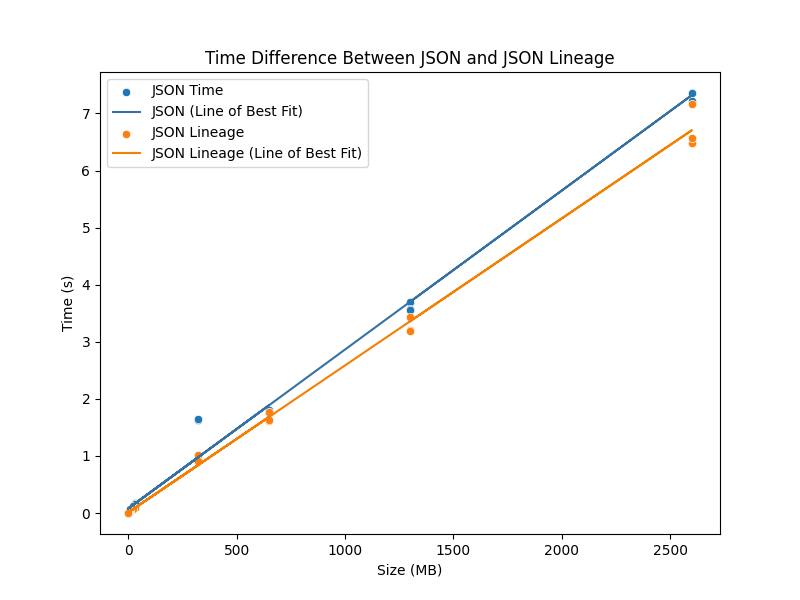
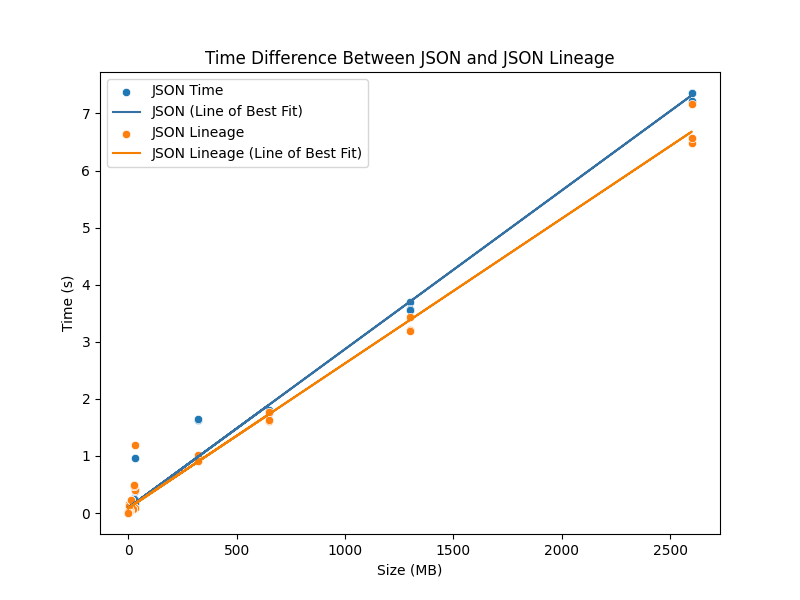
removed outliner in benchmark data, updated async iter to convert str. to json. fixed broken UTs.

diff --git a/adapters/python/tests/test_bin_interface.py b/adapters/python/tests/test_bin_interface.py
@@ -127,8 +127,8 @@ class TestBinaryReader(ReaderInstanceMixin, TestCase):
         correctly.
         """
         iterator = iter(self.reader)
-        self.assertEqual(next(iterator), '{"a": {"B": 1},"b": 2}')
-        self.assertEqual(next(iterator), '{"a": 1,"b": 2}')
+        self.assertEqual(next(iterator), {"a": {"B": 1}, "b": 2})
+        self.assertEqual(next(iterator), {"a": 1, "b": 2})
         with self.assertRaises(StopIteration):
             next(iterator)
 
@@ -213,8 +213,8 @@ class TestAsyncBinaryReader(ReaderInstanceMixin, IsolatedAsyncioTestCase):
         correctly.
         """
         iterator = self.reader.__aiter__()
-        self.assertEqual(await iterator.__anext__(), '{"a": {"B": 1},"b": 2}')
-        self.assertEqual(await iterator.__anext__(), '{"a": 1,"b": 2}')
+        self.assertEqual(await iterator.__anext__(), {"a": {"B": 1}, "b": 2})
+        self.assertEqual(await iterator.__anext__(), {"a": 1, "b": 2})
         with self.assertRaises(StopAsyncIteration):
             await iterator.__anext__()
 

diff --git a/adapters/python/json_lineage/cli.py b/adapters/python/json_lineage/cli.py
@@ -3,6 +3,7 @@ adapter.
 """
 
 import argparse
+import json
 
 from .bin_interface import BinaryReader
 
@@ -42,14 +43,14 @@ def parse_args() -> argparse.Namespace:
 def print_lines(reader: BinaryReader) -> None:
     """Prints the lines from the given reader to stdout."""
     for line in reader:
-        print(line)
+        print(json.dumps(line))
 
 
 def write_lines(reader: BinaryReader, filepath: str) -> None:
     """Writes the lines from the given reader to the given filepath."""
     with open(filepath, "w") as f:
         for line in reader:
-            f.write(line + "\n")
+            f.write(json.dumps(line) + "\n")
 
 
 def main() -> None:

diff --git a/adapters/python/json_lineage/bin_interface.py b/adapters/python/json_lineage/bin_interface.py
@@ -1,9 +1,9 @@
 import asyncio
+import json
 import os
 import platform
 import subprocess
 import typing as _t
-import json
 from collections.abc import Awaitable, Coroutine
 
 from .exceptions import BinaryExecutionException
@@ -162,7 +162,7 @@ class AsyncBinaryIterator:
         if not output:
             raise StopAsyncIteration
 
-        return output
+        return json.loads(output)
 
     async def read_output(self, process: asyncio.subprocess.Process) -> str:
         if process.stdout is None:
